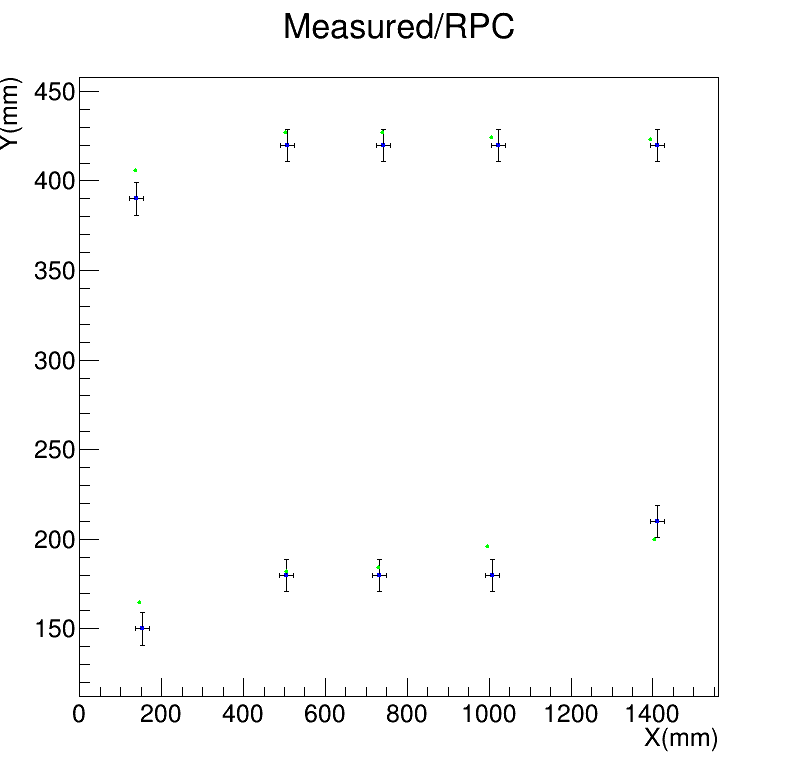
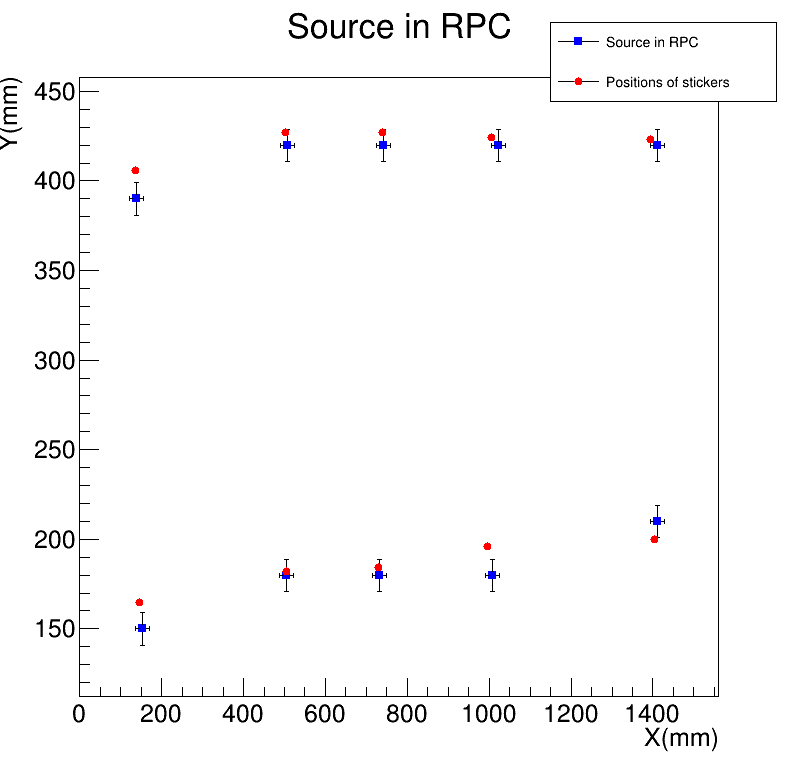
Images once again

diff --git a/rpc_peak_searching.C b/rpc_peak_searching.C
@@ -15,7 +15,7 @@ TF1 *fit[42];
 TF1 *fitAll[42];
 TH1F *hist_sub[42];
 int offset[41];
-//TH1F *strip_histo[42];   
+TH1F *strip_histo[42];   
 void calc_pik(TH1F **strip_histo, TString fileList)
 {
 	int newnBin = 47;
@@ -123,25 +123,25 @@ void rpc_peak_searching()
 //fileList.push_back("/u/land/mxarepe/unpkd_data/GSI_intern/root_files/r3b_st22046064454.root");
 //measures
 //down
-fileList.push_back("/u/land/mxarepe/unpkd_data/GSI_intern/root_files/r3b_st22046082416.root");
+//fileList.push_back("/u/land/mxarepe/unpkd_data/GSI_intern/root_files/r3b_st22046082416.root");
 fileList.push_back("/u/land/mxarepe/unpkd_data/GSI_intern/root_files/r3b_st22046060952.root");
-fileList.push_back("/u/land/mxarepe/unpkd_data/GSI_intern/root_files/r3b_st22046065513.root");
-fileList.push_back("/u/land/mxarepe/unpkd_data/GSI_intern/root_files/r3b_st22046070926.root");
-fileList.push_back("/u/land/mxarepe/unpkd_data/GSI_intern/root_files/r3b_st22046071959.root");
+//fileList.push_back("/u/land/mxarepe/unpkd_data/GSI_intern/root_files/r3b_st22046065513.root");
+//fileList.push_back("/u/land/mxarepe/unpkd_data/GSI_intern/root_files/r3b_st22046070926.root");
+//fileList.push_back("/u/land/mxarepe/unpkd_data/GSI_intern/root_files/r3b_st22046071959.root");
 //
 //
 
 //up
-fileList.push_back("/u/land/mxarepe/unpkd_data/GSI_intern/root_files/r3b_st22046081301.root");
-fileList.push_back("/u/land/mxarepe/unpkd_data/GSI_intern/root_files/r3b_st22046080126.root");
-fileList.push_back("/u/land/mxarepe/unpkd_data/GSI_intern/root_files/r3b_st22046075139.root");
-fileList.push_back("/u/land/mxarepe/unpkd_data/GSI_intern/root_files/r3b_st22046074125.root");
-fileList.push_back("/u/land/mxarepe/unpkd_data/GSI_intern/root_files/r3b_st22046073033.root");
+//fileList.push_back("/u/land/mxarepe/unpkd_data/GSI_intern/root_files/r3b_st22046081301.root");
+//fileList.push_back("/u/land/mxarepe/unpkd_data/GSI_intern/root_files/r3b_st22046080126.root");
+//fileList.push_back("/u/land/mxarepe/unpkd_data/GSI_intern/root_files/r3b_st22046075139.root");
+//fileList.push_back("/u/land/mxarepe/unpkd_data/GSI_intern/root_files/r3b_st22046074125.root");
+//fileList.push_back("/u/land/mxarepe/unpkd_data/GSI_intern/root_files/r3b_st22046073033.root");
  for(int s = 0 ; s < fileList.size() ; s++){
   TFile *eventFile;
   TTree *eventTree;
  
-TH1F *strip_histo[42];   
+//TH1F *strip_histo[42];   
   for(int i =0; i <42; i ++)
   {
    	stringstream strs;
@@ -219,10 +219,11 @@ if(t%100000==0)
 
 calc_pik(strip_histo, fileList.at(s));
 }
-/*TCanvas *C1 = new TCanvas("C1","C1",600,800);
-  int n= 7;
- TCanvas *C[n];
-  for (int i=0; i<n; i++)
+TCanvas *C1 = new TCanvas("C1","C1",600,800);
+gStyle->SetOptStat(0);
+//  int n= 7;
+// TCanvas *C[n];
+ /* for (int i=0; i<n; i++)
   {
    	stringstream strs;
 	strs << i;
@@ -230,14 +231,15 @@ calc_pik(strip_histo, fileList.at(s));
 	char *name = (char *) tmp.c_str();
 	C[i] = new TCanvas(name,name,1500,600);
 	C[i]->Divide(3,2);
-  }
+  }*/
  C1->cd();
-Pos_histo->Draw("COLZ");
-C[0]->cd(1);
-*/
+//Pos_histo->Draw("COLZ");
+strip_histo[6]->Draw();
+//C[0]->cd(1);
+
 //calc_pik(strip_histo, "XD");
-/*
-for(int i=0; i<n; i++)
+
+/*for(int i=0; i<n; i++)
 {
 	for(int j=0; j<6; j++)
 	{
@@ -246,9 +248,9 @@ for(int i=0; i<n; i++)
 			strip_histo[i*6+j+1]->Draw();
 		}
 	}
-}
+}*/
 
-*/
+
 timer.Stop();
   Double_t rtime = timer.RealTime();
   Double_t ctime = timer.CpuTime();

diff --git a/plot.C b/plot.C
@@ -52,7 +52,7 @@ void plot()
   gr->SetMarkerSize(1.5);
   gr->SetMarkerColor(4);
   gr->SetMarkerStyle(21);  
-  gr->SetTitle("Measured/RPC");
+  gr->SetTitle("");
   gr->GetXaxis()->SetTitle("RPC measured position X");
   gr->GetYaxis()->SetTitle("Sticker position X");
   gr->Draw("AP");
@@ -68,17 +68,23 @@ xRPC[i]=xRPC[i]-offset[1];
   TCanvas *C2 = new TCanvas("C2","C2",800,800);
 //  gStyle->SetOptStat(0);
   C2->cd();
-  grRPC->SetMarkerSize(0.5);
-  grMes->SetMarkerSize(0.5);
+  grRPC->SetMarkerSize(1);
+  grMes->SetMarkerSize(1);
   grRPC->SetMarkerColor(4);
-  grMes->SetMarkerColor(3);
+  grMes->SetMarkerColor(2);
   grRPC->SetMarkerStyle(21);  
   grMes->SetMarkerStyle(20);  
-  grRPC->SetTitle("Measured/RPC");
+  grRPC->SetTitle("Source in RPC");
+  grMes->SetTitle("Positions of stickers");
   grRPC->GetXaxis()->SetTitle("X(mm)");
   grRPC->GetYaxis()->SetTitle("Y(mm)");
   grRPC->Draw("AP");
   grMes->Draw("PSAME");
+  C2->BuildLegend();
+// auto legend =new TLegend(0.1, 0.7, 0.48, 0.9);
+//legend->AddEntry("grMes", "Positions of stickers", "lep");
+//legend->AddEntry("grRPC", "Source in RPC", "lep");
+//legend->Draw();
 }
 
 
